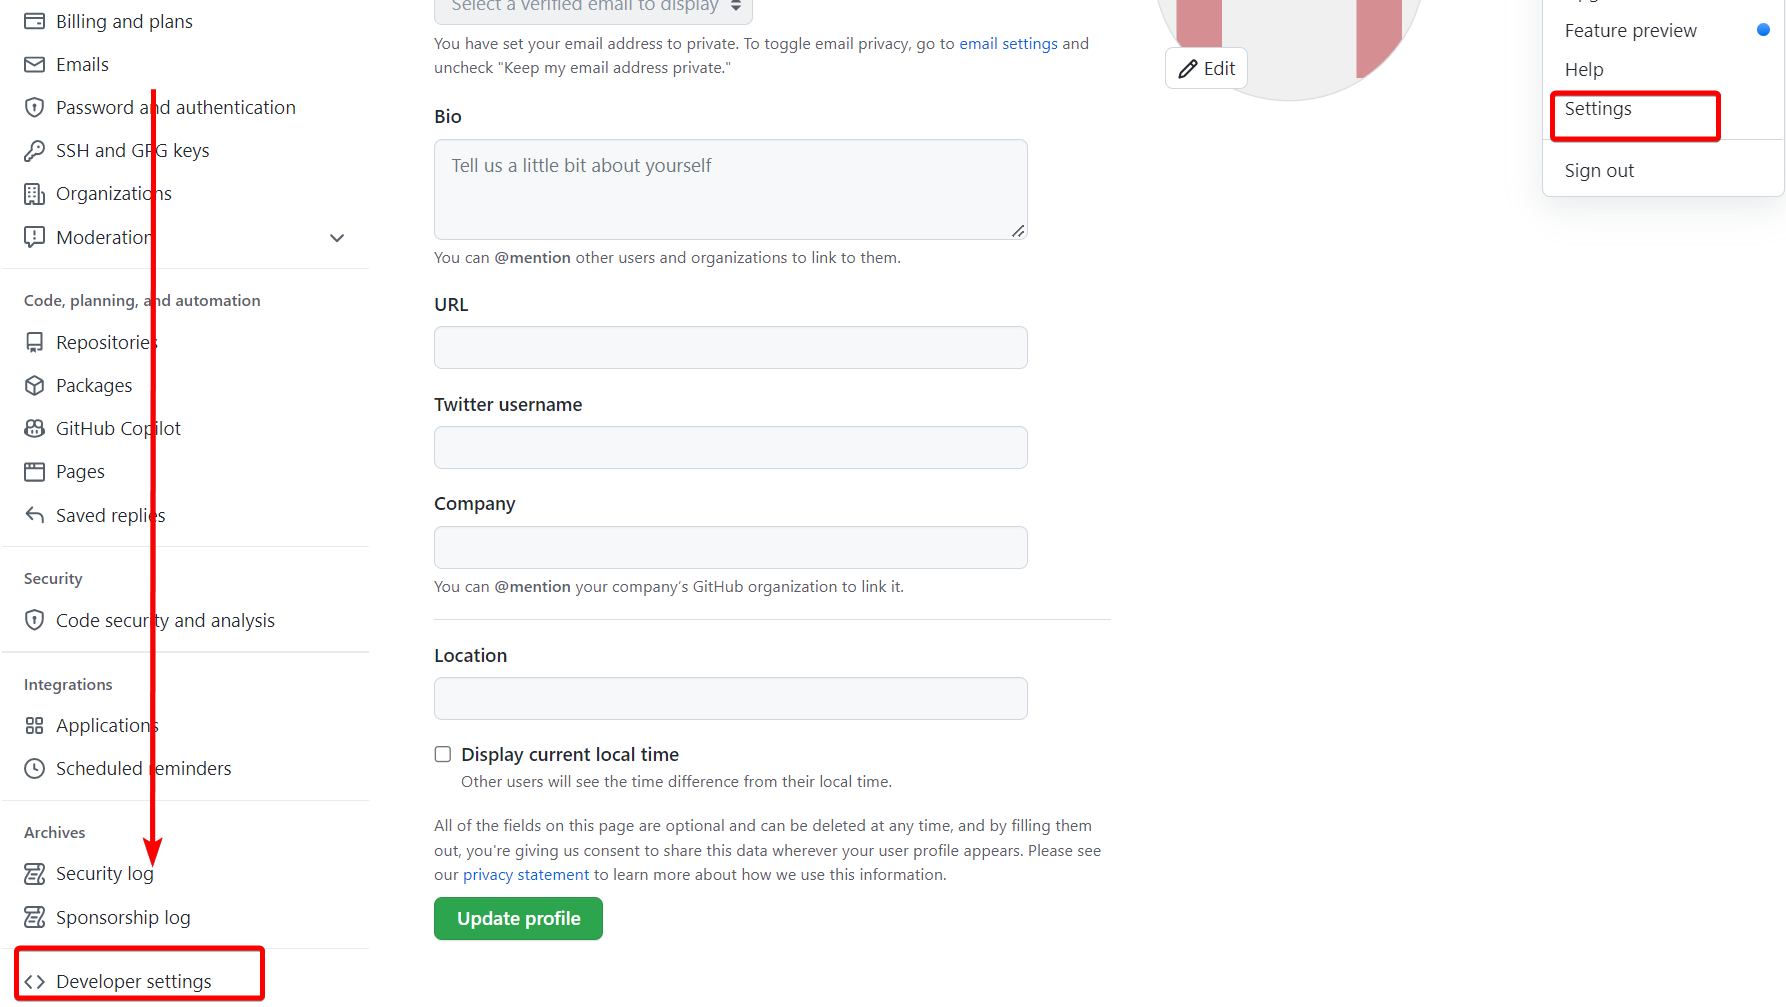
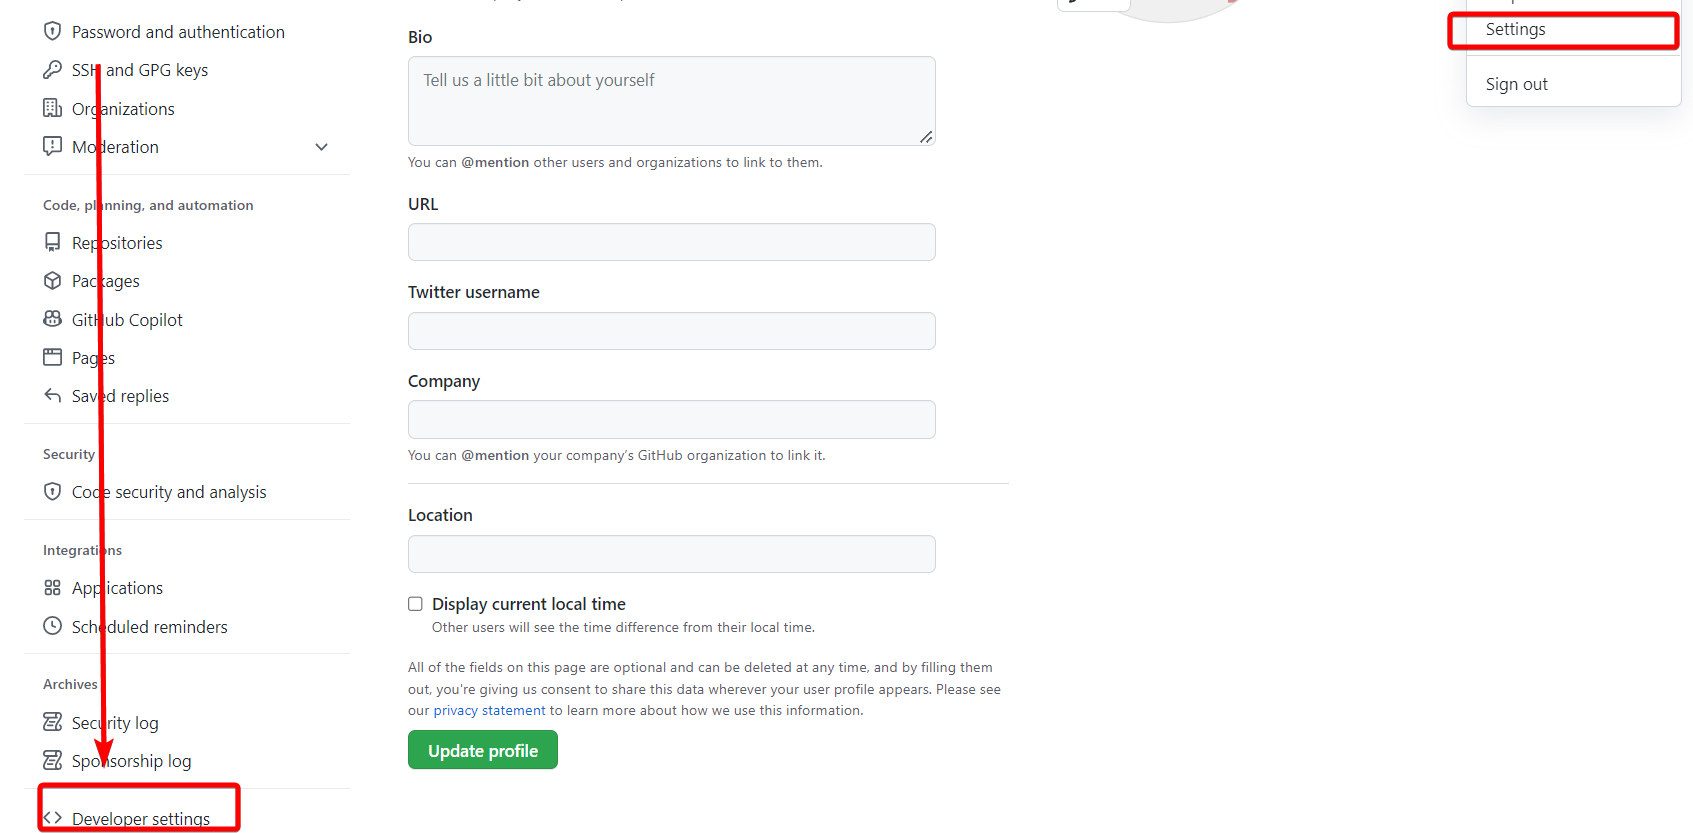
update steps images

diff --git a/microservices-cicd/int-jenkins-liquibase/integration-jenkins-liquibase.md b/microservices-cicd/int-jenkins-liquibase/integration-jenkins-liquibase.md
@@ -34,7 +34,12 @@ Estimated Time:  10 minutes
    ![GitHub Settings](images/repo-settings.png " ")
 
 2. In the left sidebar, scroll down and click on Developer settings.
+
+   ![GitHub Developer Settings](images/repo-dev-sets.png " ")
+
 3. Under Developer Settings, navigate to Personal access tokens, and click on Generate new token.
+
+   ![GitHub Repo PAT](images/repo-pat.png " ")
 
    > **Note:** Do not select `repo` option for scope.
 
